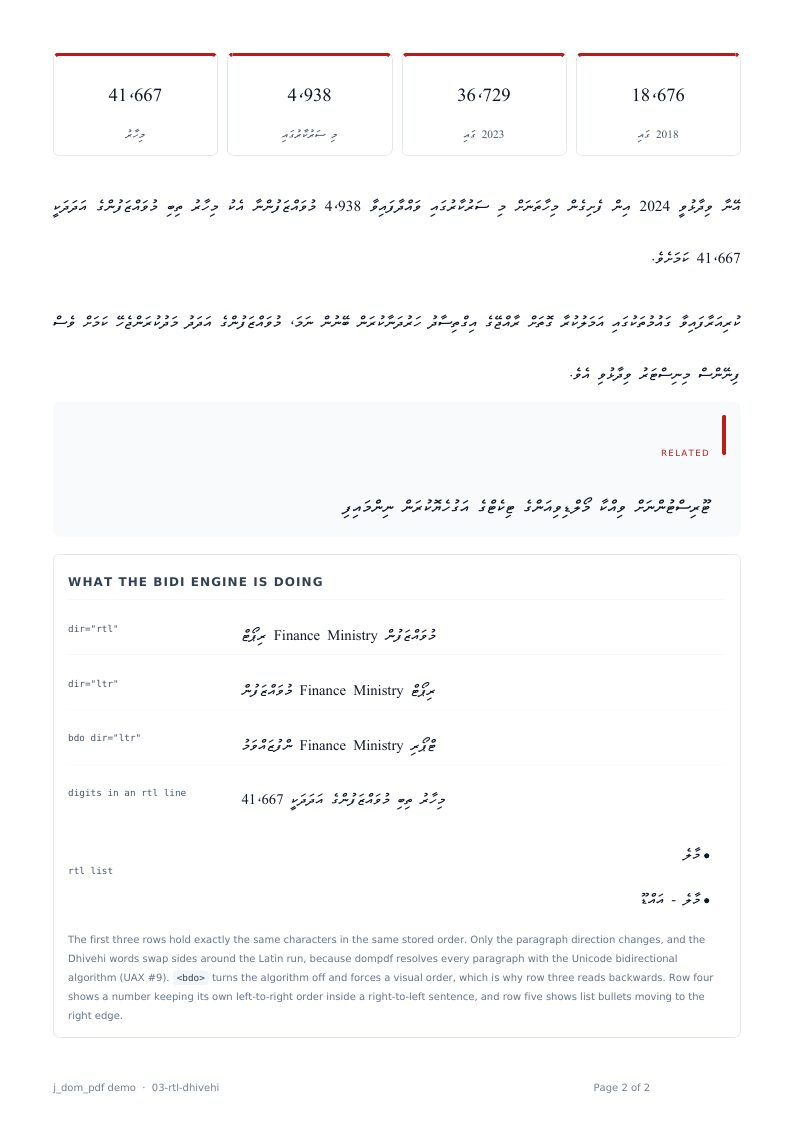
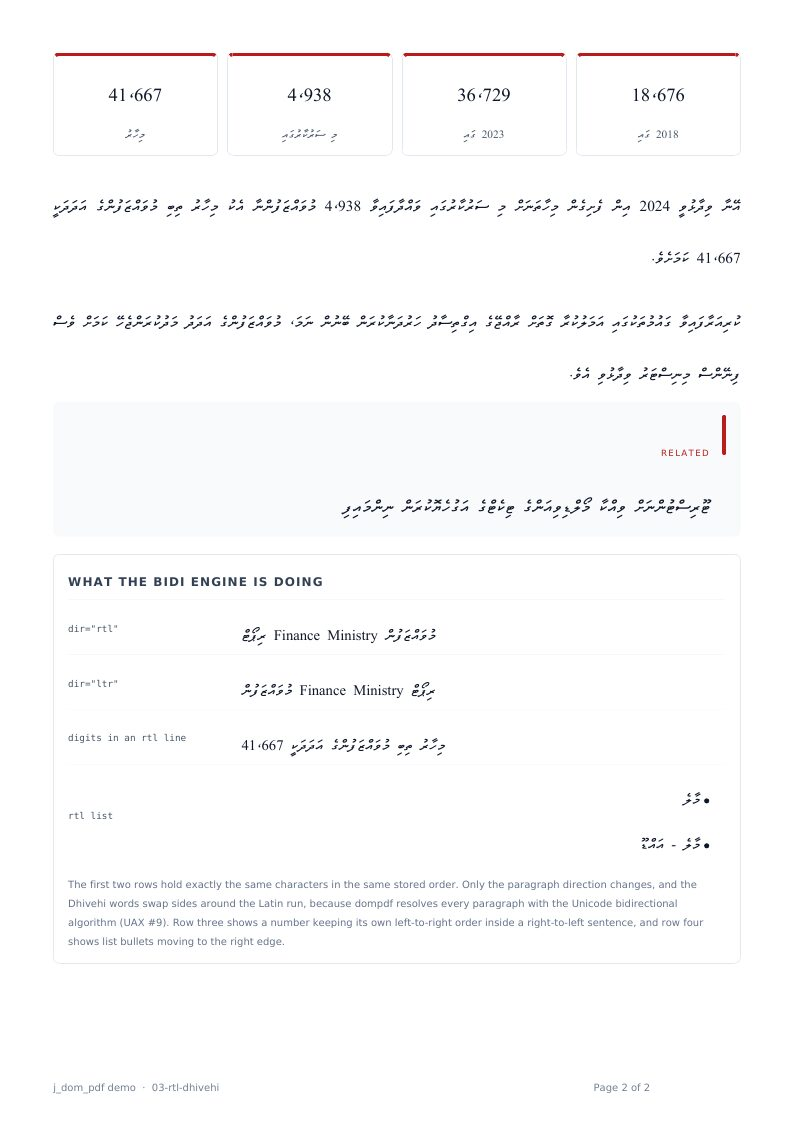
Drop the bdo row from the Dhivehi demo page
`<bdo dir="ltr">` switches the bidi algorithm off and lays the
characters out left to right in stored order, so Dhivehi comes out
backwards. Checked against Chrome serving the same markup: the PDF
matches it glyph for glyph, so the row was correct.

It still reads as a broken renderer to anyone who can read Thaana,
which works against what the page is meant to show, so the row is
gone. The four remaining rows cover paragraph direction, digits inside
a right-to-left line, and right-to-left list bullets.

Claude-Session: https://claude.ai/code/session_01XmmC2SRUUWNTqxszemqs7k

Changed region(s): [[0.0907, 0.748, 0.9068, 0.935], [0.3023, 0.6545, 0.5441, 0.7168]]

diff --git a/demo/pages/03-rtl-dhivehi.html b/demo/pages/03-rtl-dhivehi.html
@@ -194,10 +194,6 @@ ul.dv li { padding-right: 3pt; }
         <span class="sample" dir="ltr">މުވައްޒަފުން Finance Ministry ރިޕޯޓް</span>
     </div>
     <div class="case">
-        <span class="tag">bdo dir="ltr"</span>
-        <span class="sample" dir="rtl"><bdo dir="ltr">މުވައްޒަފުން Finance Ministry ރިޕޯޓް</bdo></span>
-    </div>
-    <div class="case">
         <span class="tag">digits in an rtl line</span>
         <span class="sample" dir="rtl">މިހާރު ތިބި މުވައްޒަފުންގެ އަދަދަކީ 41،667</span>
     </div>
@@ -207,12 +203,11 @@ ul.dv li { padding-right: 3pt; }
     </div>
 
     <p class="why">
-        The first three rows hold exactly the same characters in the same stored order. Only the
+        The first two rows hold exactly the same characters in the same stored order. Only the
         paragraph direction changes, and the Dhivehi words swap sides around the Latin run, because
         dompdf resolves every paragraph with the Unicode bidirectional algorithm (UAX&nbsp;#9).
-        <code>&lt;bdo&gt;</code> turns the algorithm off and forces a visual order, which is why row
-        three reads backwards. Row four shows a number keeping its own left-to-right order inside a
-        right-to-left sentence, and row five shows list bullets moving to the right edge.
+        Row three shows a number keeping its own left-to-right order inside a right-to-left
+        sentence, and row four shows list bullets moving to the right edge.
     </p>
 </div>
 

diff --git a/demo/art/make_artifact.py b/demo/art/make_artifact.py
@@ -33,7 +33,7 @@ PLATES = [
   dict(num="03", slug="rtl", file="03-rtl-dhivehi.pdf", title="Right-to-left Dhivehi",
        blurb="A Mihaaru news story typeset in Thaana with the Faruma face. The headline opens on މ, and the box at the end compares the same characters under three direction settings.",
        specs=["full UAX #9 bidi over every paragraph", "digits keep LTR order inside an RTL line",
-              "dir=\"rtl\" vs dir=\"ltr\" vs &lt;bdo&gt;", "RTL lists, bullets on the right",
+              "dir=\"rtl\" vs dir=\"ltr\" on the same characters", "RTL lists, bullets on the right",
               "RTL flex rows for the figure cards", "Faruma registered for both weights"],
        shots=["03-rtl-dhivehi-1.jpg", "03-rtl-dhivehi-2.jpg"]),
   dict(num="04", slug="report", file="04-dhivehi-report.pdf", title="All three at once",
